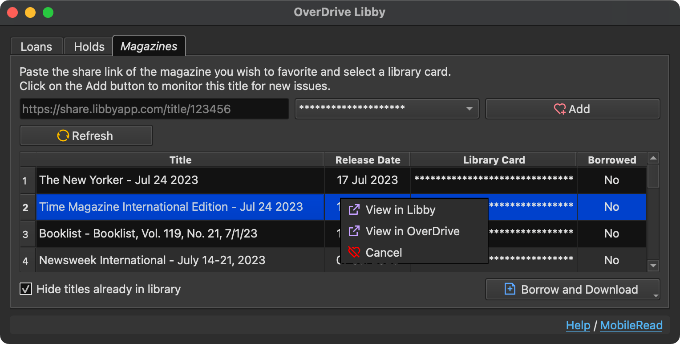
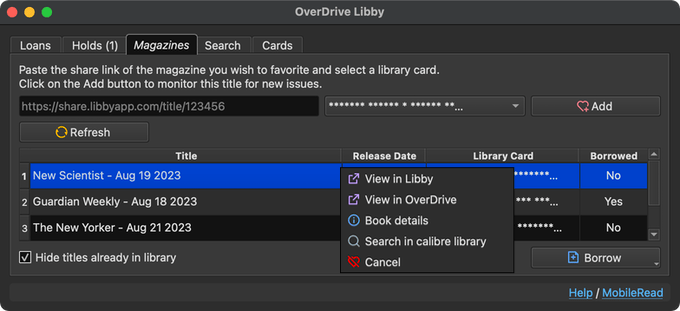
Bump version to 0.1.7

diff --git a/calibre-plugin/__init__.py b/calibre-plugin/__init__.py
@@ -21,7 +21,7 @@ if False:
 
 load_translations()
 
-__version__ = (0, 1, 6)
+__version__ = (0, 1, 7)
 PLUGIN_NAME = "overdrive_libby"
 PLUGIN_ICON = "images/plugin.svg"
 

diff --git a/README.md b/README.md
@@ -2,15 +2,17 @@
 
 OverDrive Libby is a plugin that allows you to directly import your Libby loans into [calibre](https://calibre-ebook.com/).
 
-Requires calibre 6.
+Requires calibre 5.34.0 or newer.
 
 ## Main Features
 
 - Import the `.acsm` file for EPUB/PDF(DRM) book loans
-- Import the `.epub` file for EPUB (open) book loans
+- Import the `.epub`/`pdf` file for EPUB/PDF (open) book loans
 - Import the `.epub` file for Magazines loans \[EXPERIMENTAL\]
+- Import Kindle / audiobook loans as empty books
 - View and borrow holds
 - Monitor magazines for new issues
+- Simple search across your linked libraries
 
 This plugin is compatible with the [ACSM Input plugin](https://github.com/Leseratte10/acsm-calibre-plugin/) for converting `.acsm` files into `.epub`.
 
@@ -38,32 +40,68 @@ You should only need to do this setup once. Then add the plugin to the toolbar/m
 
 ### Help
 
-- Tag downloaded ebooks with
-  - Add specified tags to the ebooks downloaded
-- Tag downloaded magazines with
-  - Add specified tags to the magazines downloaded
+#### Loans
+
 - Hide Ebooks
   - Don't list ebook loans
 - Hide Magazines
   - Don't list magazine loans
-- Prefer Open Formats
-  - Choose DRM-free formats if available
 - Hide books already in library
   - Hide loans that are already in your library
 - Exclude empty books when hiding titles already in library
   - When enabled, empty books are excluded when hiding titles already in your library
-- Hide unavailable holds
-  - Hide holds that are not yet available
 - Always confirm returns
   - Toggle the confirmation prompt before returning loans
-- Always confim holds cancellation
-  - Toggle the confirmation prompt before cancelling a hold
+- Always confirm Read with Kindle
+  - Toggle the confirmation prompt before chosing to Read with Kindle a title that is not format-locked
+- Prefer Open Formats
+  - Choose DRM-free formats if available
 - Enable OverDrive Link Plugin integration
   - Enable or disable the integration. If enabled, the plugin will attempt to find a matching OverDrive-linked book that does not have any formats and add the new download as an EPUB to the book record. Newly downloaded books will also have the `odid` identifier added.
 - Mark updated books
   - This relates to empty books that are updated with a download by the plugin. If enabled, book records that were updated with a new format will be marked.
 - Always download as a new book
   - Never update an existing empty book. Always create a new book entry for a download.
+- Tag downloaded ebooks with
+  - Add specified tags to the ebooks downloaded
+- Tag downloaded magazines with
+  - Add specified tags to the magazines downloaded
+- Custom column for Borrowed Date
+  - If specified, this column will be updated with the loan checkout date
+- Custom column for Due Date
+  - If specified, this column will be updated with the loan expiry date
+- Custom column for Loan Type
+  - If specified, this column will be updated with the loan type, e.g. ebook / magazine / audiobook.
+
+#### Holds
+
+- Hide unavailable holds
+  - Hide holds that are not yet available
+- Always confim holds cancellation
+  - Toggle the confirmation prompt before cancelling a hold
+
+#### Search
+
+- Maximum search results
+  - Limit the number of search results returned
+- Library Keys
+  - This determines the libraries that will be used for search.
+  - Up to 24 of your linked cards will be used. If you have more than 24, you can specify the libraries to use by specifying the library keys in a comma-separated format.
+
+#### General
+
+- Include titles without downloadable formats
+  - When enabled, titles that do not have a downloadable format will be shown
+  - When such titles are chosen for download, an empty book will be created in the calibre library
+- Use highest-resolution cover for book details
+  - Display best-quality cover when viewing book details. May be slower.
+
+#### Network
+
+- Connection timeout
+  - The maximum interval to wait on a connection. You can increase this value if you have a slow connection.
+- Retry attempts
+  - The number of retries upon connection failures
 
 ## Usage
 
@@ -75,9 +113,24 @@ Launch the OverDrive Libby plugin, and click on the "Loans" tab. Select the loan
 
 Each selected loan will then be downloaded in its own calibre job. When the job completes, the loan book file should be in your library.
 
-Only downloadable loans will be listed. If the loan does not have a downloadable format, or has previously been sent to your Kindle, it will not be shown.
+Only downloadable loans will be listed. If the loan does not have a downloadable format, or has previously been sent to your Kindle, it will not be shown unless "Include titles without downloadable formats" is enabled in setup.
 
-To return a loan or to view the title on the Libby/OverDrive site, select and right-click on the row, then select the appropriate action.
+Select a row, right-click and select the appropriate action to:
+- Return a loan
+- View the title on the Libby/OverDrive site
+- Read with Kindle (if available)
+- View book details (also accesible by double-clicking on the row)
+- Search for selected book in your calibre library
+- Search with the selected book title and author
+- Renew/place a hold for an expiring loan
+
+#### Format Locking
+
+Libby does not allow users to read a loan on a Kindle and still download the title as an `.acsm`/`.epub`.
+
+If you chose to read with a Kindle, the loan will not be available for download (the loan is locked to the Kindle format). Similarly, if you chose to download the `.acsm`/`.epub`, the loan becomes locked to the acsm/epub format and will not be available for reading on a Kindle.
+
+Removing a book from the Kindle/ADE/calibre does not "unlock" the loan. To do that, you have to return and borrow the book again.
 
 ### Holds
 
@@ -91,9 +144,9 @@ Alternatively, right-click on the Borrow button to choose the "Borrow and Downlo
 
 To list unavailable holds, uncheck the "Hide unavailable holds" checkbox.
 
-To cancel a hold, select and right-click on the row, then select "Cancel hold".
-
-To suspend a hold, or delay delivery, right-click and select "Edit hold". Use the slider to set the number of days to suspend/delay for, then click on "Update".
+Select a row, right-click and select the appropriate action to:
+- Cancel a hold
+- Suspend/delay delivery for a hold ("Manage hold")
 
 ![Edit Hold](images/edit_hold.png)
 
@@ -109,11 +162,31 @@ The title will then be listed below with its details. To borrow a title, select 
 
 To stop monitoring a title, select and right-click on the row, then select "Cancel".
 
+### Search
+
+![Search](images/search.png)
+
+The "Search" tab provides a basic search function across your libraries. The libraries to search and the number of results returned can be customised in setup. To borrow or place a hold, select a title, then click on the Hold or Borrow button and select the card you wish to use.
+
+### Cards
+
+![Cards](images/cards.png)
+
+The "Cards" tab provides an overview of the linked cards in your Libby account. Right-click on the Library name, Loans, or Holds to view the respective pages on OverDrive or Libby.
+
 ## FAQ
 
 ### `[SSL: CERTIFICATE_VERIFY_FAILED] certificate verify failed` error on Windows
 
 Download the Let's Encrypt R3 certificate https://letsencrypt.org/certs/lets-encrypt-r3.der. Import it into the Windows certificate store by double-clicking on the file and follow the subsequent prompts.
+
+### Why can't I see my all loans?
+
+If you wish to see loans that are not fully downloadable (e.g. Kindle loans, audibooks), enable the "Include titles without downloadable formats" option in setup.
+
+### Why is a loan downloaded without any formats (acsm/epub)?
+
+This is because the loan does not have a supported downloadable format available. The loan is either not available in epub/pdf, or you have chosen to Read with Kindle (see above for details about [Format Locking](#format-locking)).
 
 
 ## Credit

diff --git a/CHANGELOG.md b/CHANGELOG.md
@@ -1,6 +1,6 @@
 # Changelog
 
-Unreleased
+Version 0.1.7 - 2023-08-20
 - New: If "Include titles without downloadable formats" is enabled, titles that do not have a downloadable format will be shown. In addition, when the title is chosen for download, the plugin will create an Empty Book
 - New: Read with Kindle option is available for loans that are available as Kindle books and not already format-locked
 - New: Search tab that provides a basic search function across your libraries
